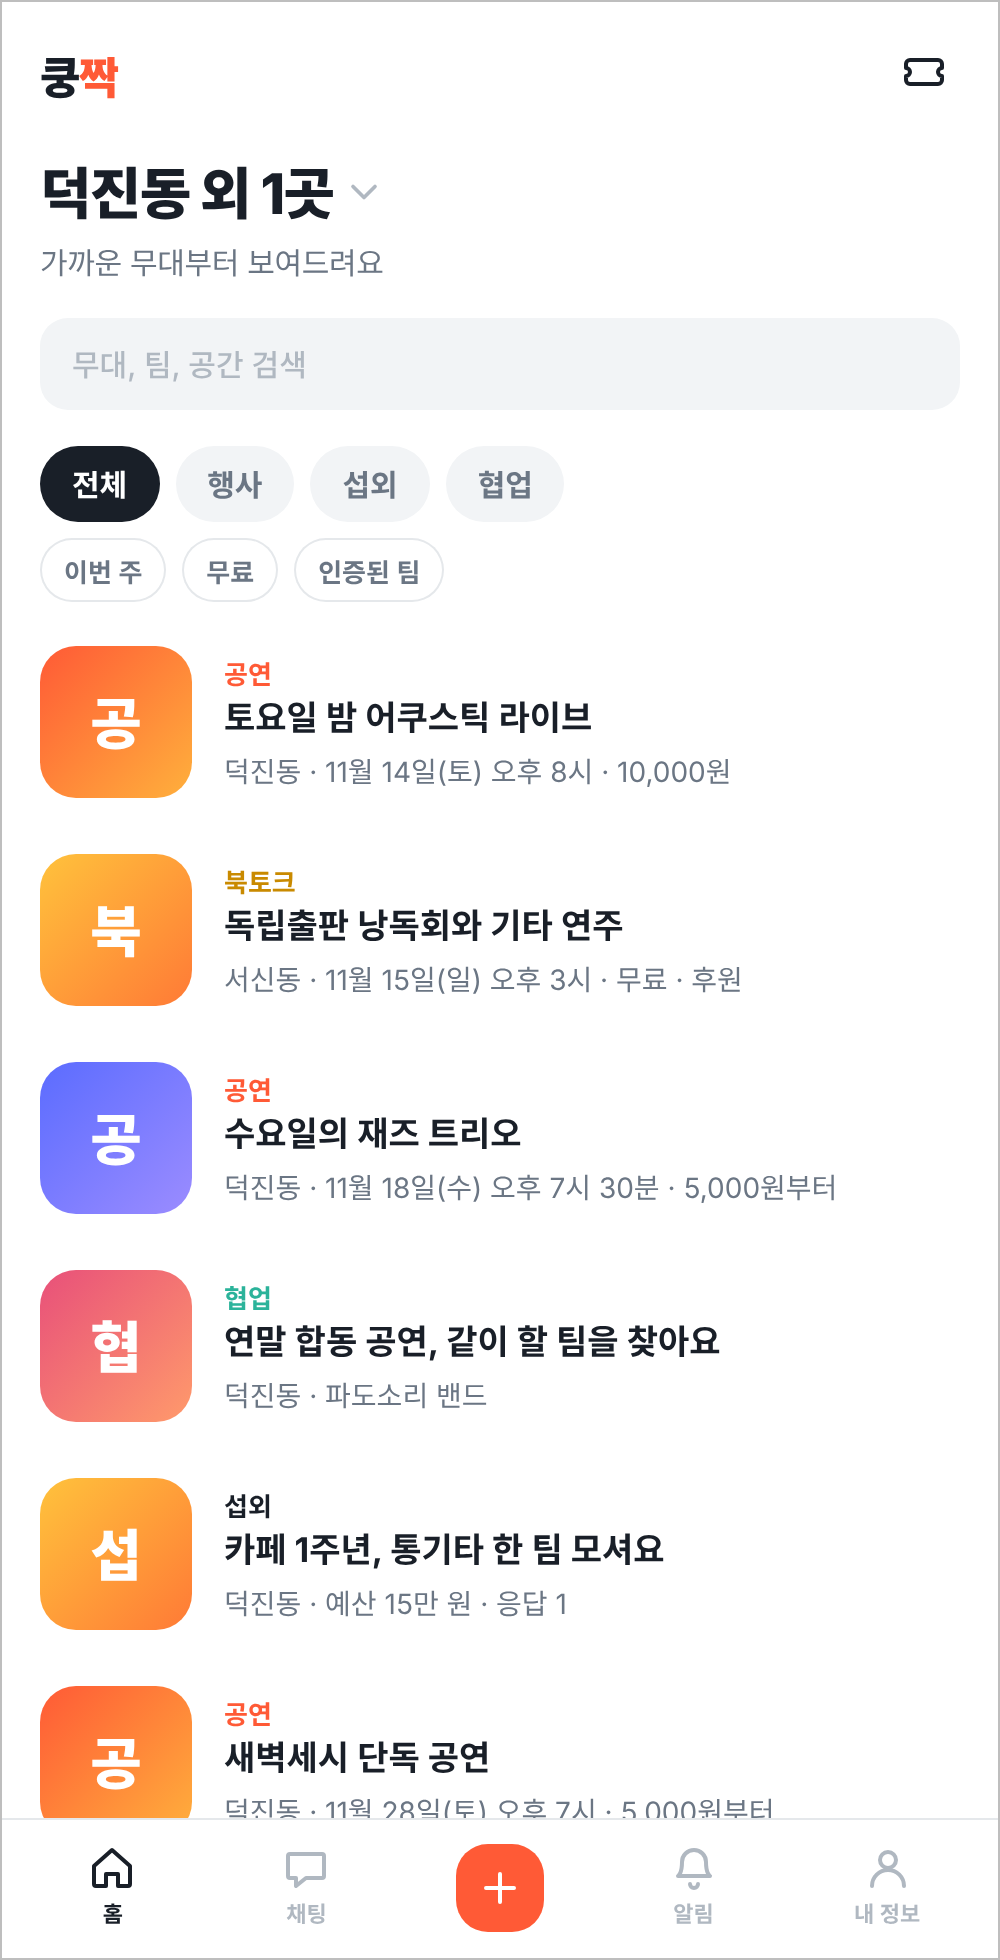
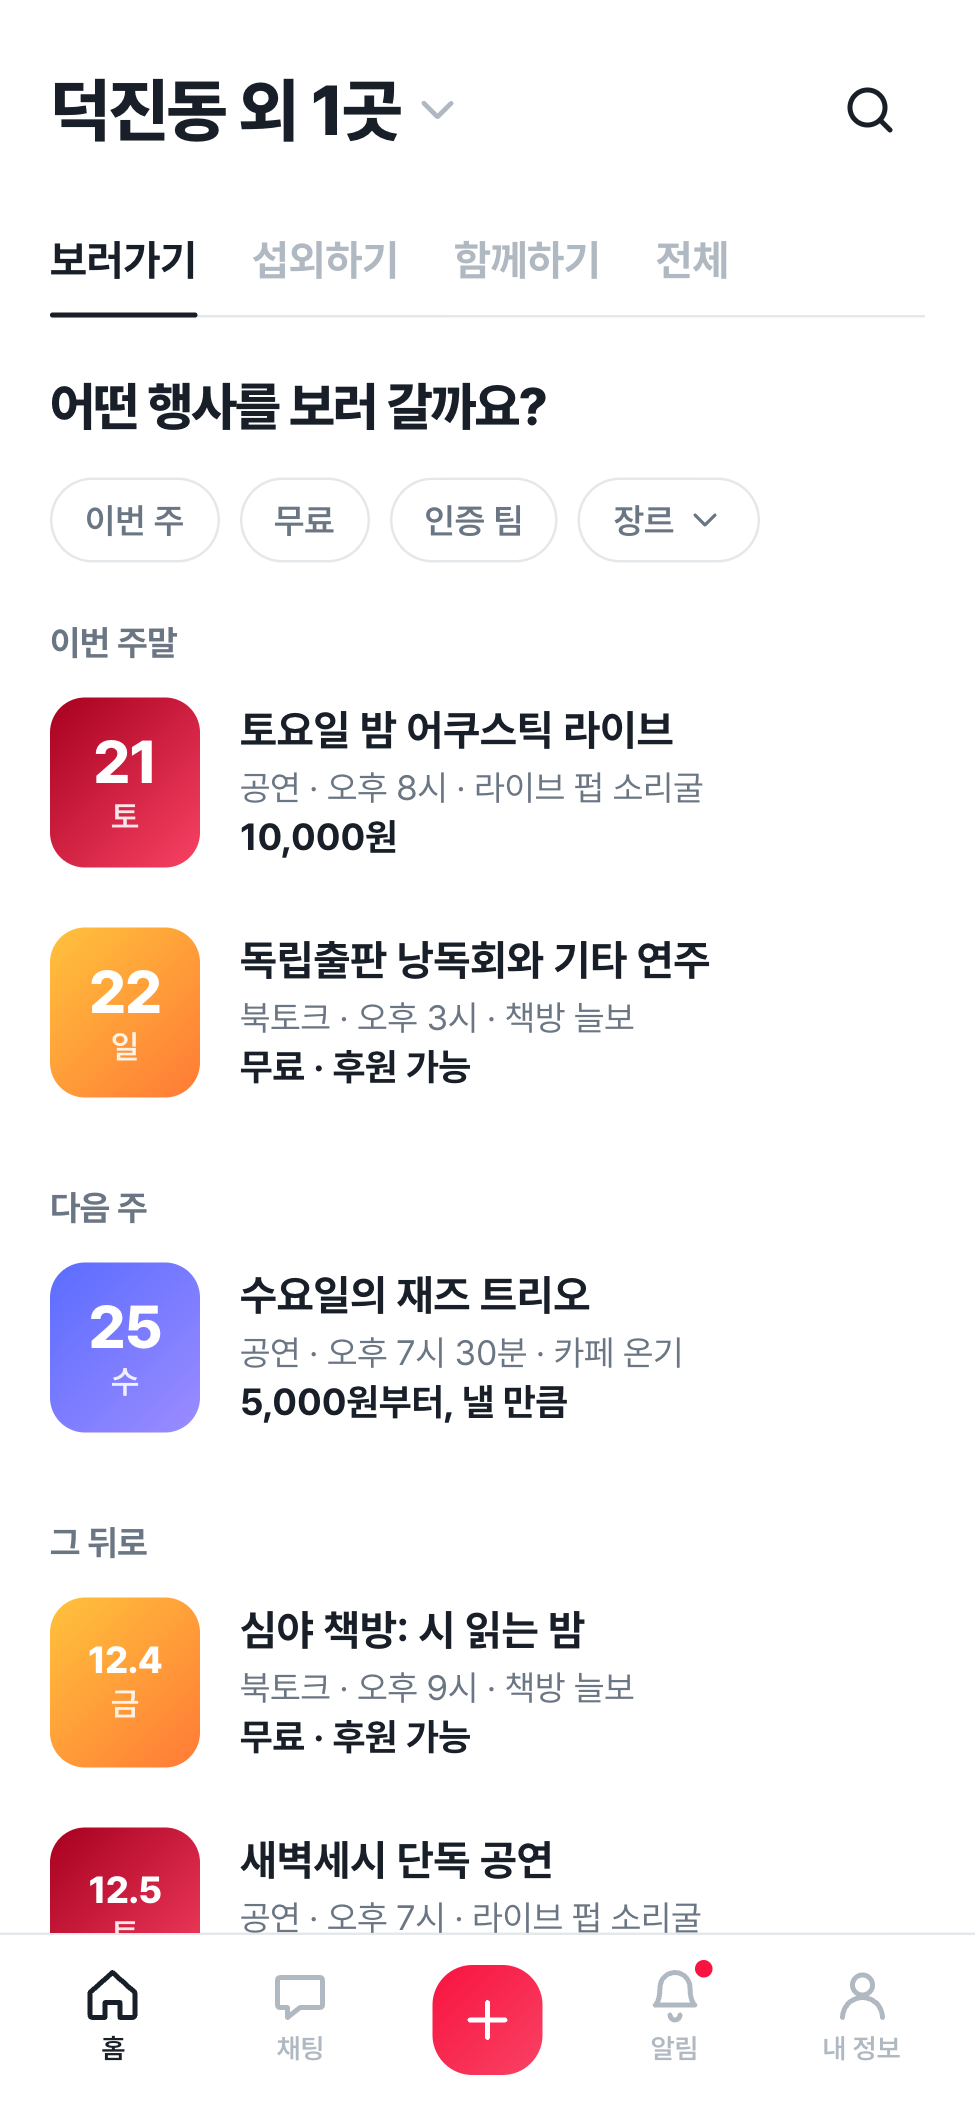
설문 시안용으로 홈 캡처를 새로 찍고 행사상세·섭외글 캡처 추가

diff --git a/CLAUDE.md b/CLAUDE.md
@@ -27,7 +27,7 @@
 | `scripts/sync_notebook.py` | `index.html` → 노트북 반영. `--check`는 쓰지 않고 차이만 확인한다. `index.html`을 고치면 훅이 자동으로 실행한다. |
 | `.github/workflows/sync-notebook.yml` | `index.html`이 main에 올라오면 GitHub Actions가 노트북을 다시 만들어 커밋한다. 훅을 못 쓰는 환경(GitHub 웹 편집 등)을 위한 안전장치. |
 | `README.md` | 팀원용 안내(Colab 링크, 작업 순서, 푸시 오류 대처). 협업 방식이 바뀌면 함께 고친다. |
-| `캡처/` | 발표·공유용 화면 캡처 6장(홈, 예매완료, 알림, 섭외채팅, 팀프로필, 운영현황) |
+| `캡처/` | 발표·공유용 화면 캡처 8장(홈, 예매완료, 알림, 섭외채팅, 팀프로필, 운영현황, 행사상세, 섭외글). 1·7·8번은 설문 시안으로도 쓴다(GitHub 이미지 주소로 연결되니 이름을 바꾸지 말 것) |
 | `쿵짝_아이디어기획서.hwpx` | 제출용 기획서(한글 파일) |
 | `session-export-*/` | 지난 작업 세션 기록. 참고용으로만 보고 수정하지 않는다. |
 
